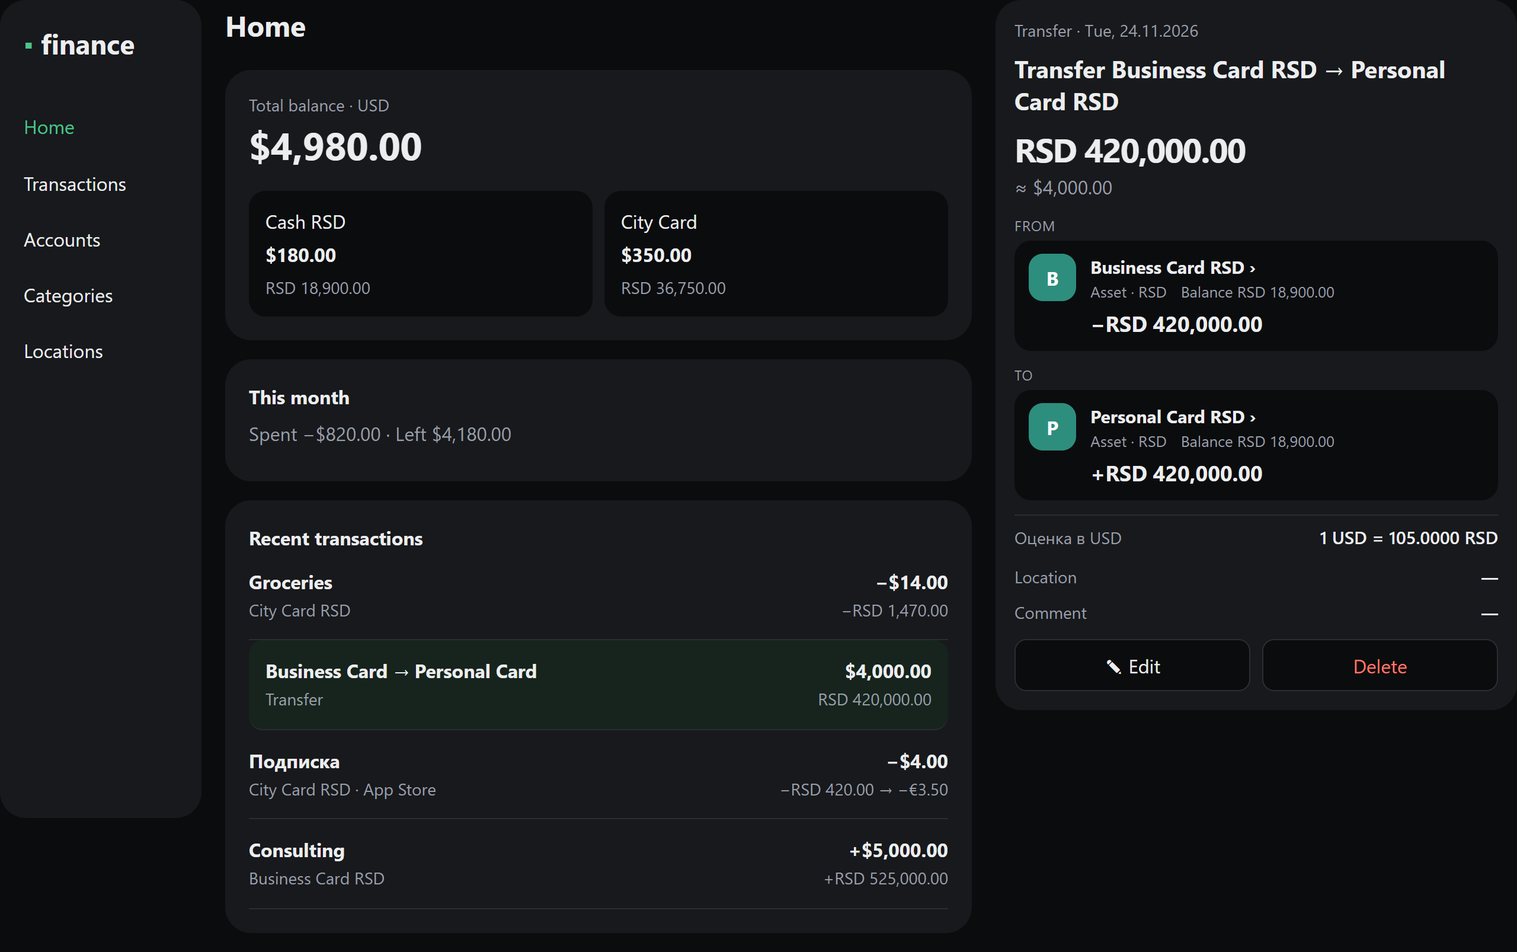
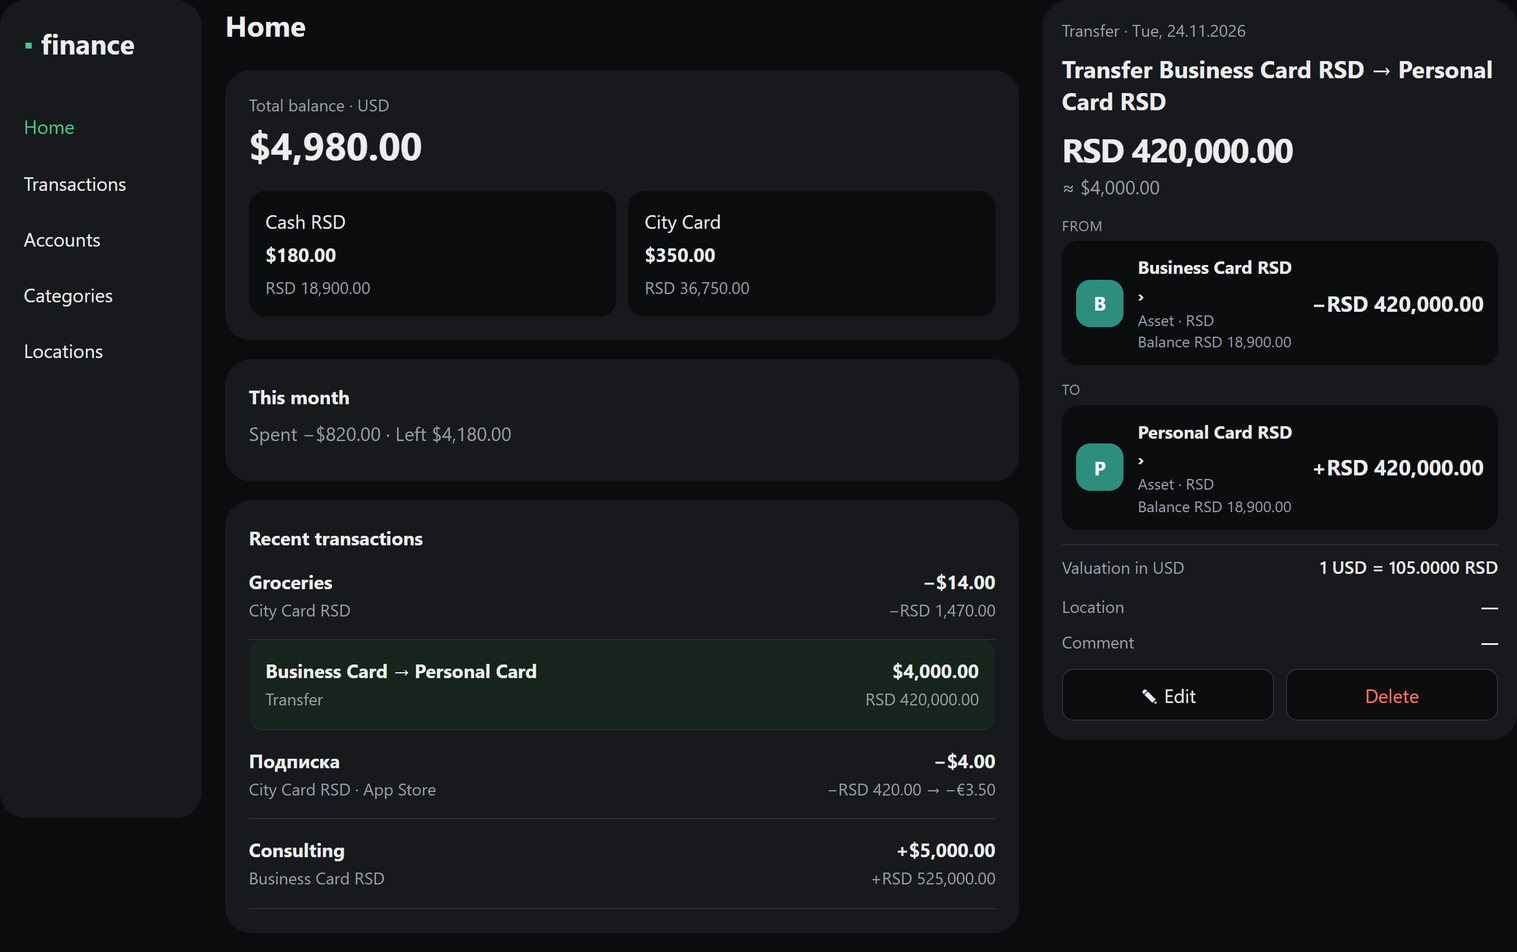
Align #541 mockups with final card width and amount placement

diff --git a/541/design/index.html b/541/design/index.html
@@ -1,7 +1,9 @@
 <!doctype html><html lang="ru"><meta charset="utf-8"><meta name="viewport" content="width=device-width,initial-scale=1"><title>Finance — карточки и курсы</title><style>
-:root{color-scheme:dark;--ground:#0b0c0e;--panel:#17191c;--ink:#ecedee;--muted:#9a9ea6;--line:#2a2d32;--selected:#16241d;--accent:#4cc38a} :root[data-theme=light]{color-scheme:light;--ground:#eeeeeb;--panel:#fff;--ink:#17181a;--muted:#5a5d64;--line:#e2e2de;--selected:#eaf3ee;--accent:#1f7a55}*{box-sizing:border-box}body{margin:0;background:var(--ground);color:var(--ink);font:16px/1.45 system-ui,sans-serif}button,select{font:inherit;color:inherit;background:var(--panel);border:1px solid var(--line);border-radius:10px;min-height:44px;padding:8px 14px;cursor:pointer}button.active{background:var(--ink);color:var(--ground)}button:focus-visible,select:focus-visible{outline:2px solid var(--accent);outline-offset:3px}.toolbar{padding:24px;position:sticky;top:0;background:var(--ground);z-index:2;border-bottom:1px solid var(--line)}h1{font-size:24px;margin:0 0 8px}p{margin:8px 0;color:var(--muted)}.controls{display:flex;flex-wrap:wrap;gap:8px;margin-top:16px}label{display:flex;align-items:center;gap:8px}.preview{padding:24px;overflow:auto}.canvas{width:1280px;max-width:100%;margin:auto;display:grid;grid-template-columns:170px minmax(0,1fr) 440px;gap:20px;align-items:start}.canvas.phone{width:390px;display:block}.nav,.panel,.detail{background:var(--panel);border-radius:22px;padding:20px}.nav{min-height:690px}.logo{font-weight:700;font-size:23px;margin:0 0 30px}.logo i{color:var(--accent)}.nav span{display:block;padding:12px 0}.nav .chosen{color:var(--accent)}.panel{margin-bottom:16px}.label{font-size:14px;color:var(--muted)}h2{font-size:24px;margin:8px 0 20px}.primary{font-size:36px;font-weight:650;letter-spacing:-.03em;line-height:1.15;margin:20px 0 6px;font-variant-numeric:tabular-nums}.base{font-size:16px;color:var(--muted)}.role{font-size:14px;text-transform:uppercase;letter-spacing:.04em;color:var(--muted);margin:24px 0 8px}.entry{background:var(--ground);border-radius:16px;padding:16px}.identity{display:flex;gap:12px;align-items:center}.avatar{display:grid;place-items:center;width:40px;height:40px;border-radius:12px;flex:none;background:#2d8e7e;color:white;font-weight:650}.identity strong{font-size:18px;overflow-wrap:break-word}.entryamount{margin:14px 0 0 52px;display:flex;justify-content:space-between;align-items:baseline;gap:8px;flex-wrap:wrap}.entryamount strong{font-size:21px;font-variant-numeric:tabular-nums}.entry .base{font-size:15px}.rates{border-top:1px solid var(--line);margin-top:22px;padding-top:16px}.rates .label{margin-bottom:8px}.rate{display:flex;flex-direction:column;gap:2px;margin-bottom:12px}.rate strong{font-size:16px;font-weight:550}.rate span{font-size:14px;color:var(--muted)}.facts{margin-top:18px}.fact{display:flex;justify-content:space-between;gap:18px;margin:10px 0}.fact span{color:var(--muted)}.actions{display:flex;gap:10px;margin-top:22px}.actions button{flex:1;background:var(--ground)}.actions button:last-child{color:#ff7a6b}.row{padding:14px 0;border-bottom:1px solid var(--line);display:flex;justify-content:space-between;gap:16px}.row strong{display:block}.row small{font-size:14px;color:var(--muted)}.row .money{text-align:right;flex:none}.highlight{background:var(--selected);padding:14px;border-radius:12px}.summary{font-size:32px;font-weight:650}.tiles{display:flex;gap:10px;margin-top:16px}.tile{background:var(--ground);border-radius:14px;padding:14px;flex:1}.tile strong{display:block;margin:4px 0}.tile small{color:var(--muted);font-size:14px}.middle>h2{margin-top:4px}.phone .nav,.phone .middle{display:none}.phone .detail{border-radius:22px}.variant-b .entryamount{margin:14px 0 0;text-align:right;display:block}.variant-b .entryamount .base{display:block;margin-top:4px}.variant-b .entry{padding:14px}.variant-b .rates{padding:16px;background:var(--ground);border-radius:14px;border:0}.hint{max-width:1000px;margin:16px auto;font-size:14px}.catalog .canvas{grid-template-columns:70px minmax(220px,1fr) minmax(240px,1fr) 440px}.catalog .nav span{font-size:0}.catalog .nav span:first-letter{font-size:18px}.catalog .logo{font-size:0}.accountlist{display:none}.catalog .accountlist{display:block}.catalog .tile{margin-bottom:14px}.catalog .canvas.phone{display:block}.catalog .phone .accountlist{display:none}@media(max-width:900px){.canvas{max-width:none}.preview{padding:16px}.toolbar{position:static}.preview:has(.phone){overflow:visible}.canvas.phone{max-width:100%}}
-.detail{padding:16px}.detail h2{line-height:1.35;margin:8px 0 12px;font-size:20px}.primary{font-size:28px;margin:12px 0 4px}.role{margin:12px 0 4px;font-size:12px}.entry{padding:10px 12px;border-radius:14px}.identity strong{font-size:15px}.entry .identity .label{font-size:13px;display:flex;flex-wrap:wrap;gap:0 12px}.entryamount{margin-top:4px}.entryamount strong{font-size:18px}.rates{margin-top:12px;padding-top:8px}.rate{flex-direction:row;flex-wrap:wrap;justify-content:space-between;align-items:baseline;gap:0 12px;margin-bottom:8px}.rate strong{font-size:15px}.rate span{font-size:14px}.facts{margin-top:12px;font-size:14px}.actions{margin-top:12px}</style><header class="toolbar"><h1>Finance · суммы, курсы и пространство</h1><p>Два варианта для согласования. Все имена и операции вымышлены.</p><div class="controls"><button id="a" class="active">A · название сверху, суммы ниже</button><button id="b">B · суммы отдельным блоком справа</button><label>Экран <select id="screen"><option value="transactions">Transactions</option><option value="home">Home</option><option value="catalog">Accounts</option></select></label><label>Пример <select id="example"><option value="expense">Расход RSD → EUR</option><option value="same">Расход RSD → RSD</option><option value="fee">Расход RSD → USD</option><option value="transfer">Перевод RSD → RSD</option><option value="fx">Перевод USD → RSD</option><option value="income">Доход в RSD</option><option value="adjustment">Корректировка в RSD</option><option value="different">Перевод с разной оценкой</option><option value="unvalued">Операция без оценки</option></select></label><button id="width">Телефон · 390</button><button id="theme">Светлая тема</button></div></header><div class="preview"><div class="canvas" id="canvas"></div></div><p class="hint">Панель деталей: 440 CSS px на компьютере. В компактной раскладке сначала сворачивается меню; три колонки появляются только при достаточной ширине. Названия и суммы не обрезаются. Курсы находятся в одном блоке; список транзакций показывает суммы без курсов.</p><script>
-const examples={expense:{type:'Expense',title:'Подписка',amount:'−RSD 420.00',base:'≈ −$4.00',from:'City Card RSD',to:'Подписки',fromAmount:'−RSD 420.00',toAmount:'+€3.50',fromNote:'Asset · RSD',toNote:'Expense · Fixed',rates:[['Курс операции','1 EUR = 120.0000 RSD'],['Оценка в USD','1 USD = 105.0000 RSD']]},same:{type:'Expense',title:'Groceries',amount:'−RSD 1,470.00',base:'≈ −$14.00',from:'City Card RSD',to:'Groceries',fromAmount:'−RSD 1,470.00',toAmount:'+RSD 1,470.00',fromNote:'Asset · RSD',toNote:'Expense · Variable',rates:[['Оценка в USD','1 USD = 105.0000 RSD']]},fee:{type:'Expense',title:'Service fee',amount:'−RSD 1,365.00',base:'≈ −$13.00',from:'Business Card RSD',to:'Fees',fromAmount:'−RSD 1,365.00',toAmount:'+$13.00',fromNote:'Asset · RSD',toNote:'Expense · Fixed',rates:[['Курс операции · также оценка в USD','1 USD = 105.0000 RSD']]},transfer:{type:'Transfer',title:'Transfer Business Card RSD → Personal Card RSD',amount:'RSD 420,000.00',base:'≈ $4,000.00',from:'Business Card RSD',to:'Personal Card RSD',fromAmount:'−RSD 420,000.00',toAmount:'+RSD 420,000.00',fromNote:'Asset · RSD',toNote:'Asset · RSD',rates:[['Оценка в USD','1 USD = 105.0000 RSD']]},fx:{type:'Transfer',title:'Transfer USD Card → Cash RSD',amount:'$10.00',base:'',from:'USD Card',to:'Cash RSD',fromAmount:'−$10.00',toAmount:'+RSD 1,050.00',fromNote:'Asset · USD',toNote:'Asset · RSD',rates:[['Курс операции · также оценка в USD','1 USD = 105.0000 RSD']]},income:{type:'Income',title:'Consulting',amount:'+RSD 525,000.00',base:'≈ +$5,000.00',from:'Consulting',to:'Business Card RSD',fromAmount:'−RSD 525,000.00',toAmount:'+RSD 525,000.00',fromNote:'Income',toNote:'Asset · RSD',rates:[['Оценка в USD','1 USD = 105.0000 RSD']]},adjustment:{type:'Adjustment',title:'Balance adjustment',amount:'+RSD 1,050.00',base:'≈ +$10.00',from:null,to:'Cash RSD',toAmount:'+RSD 1,050.00',toNote:'Asset · RSD',rates:[['Оценка в USD','1 USD = 105.0000 RSD']]},different:{type:'Transfer',title:'Transfer EUR Card → Cash RSD',amount:'€100.00',base:'≈ $110.00',from:'EUR Card',to:'Cash RSD',fromAmount:'−€100.00',toAmount:'+RSD 12,000.00',fromNote:'Asset · EUR',toNote:'Asset · RSD',rates:[['Курс операции','1 EUR = 120.0000 RSD'],['Оценка FROM в USD','1 USD = 0.9091 EUR'],['Оценка TO в USD','1 USD = 100.0000 RSD']],difference:'+$10.00'},unvalued:{type:'Expense',title:'Groceries',amount:'−RSD 1,470.00',base:'Ещё не оценено',from:'City Card RSD',to:'Groceries',fromAmount:'−RSD 1,470.00',toAmount:'+RSD 1,470.00',fromNote:'Asset · RSD',toNote:'Expense · Variable',rates:[]}};
+:root{color-scheme:dark;--ground:#0b0c0e;--panel:#17191c;--ink:#ecedee;--muted:#9a9ea6;--line:#2a2d32;--selected:#16241d;--accent:#4cc38a} :root[data-theme=light]{color-scheme:light;--ground:#eeeeeb;--panel:#fff;--ink:#17181a;--muted:#5a5d64;--line:#e2e2de;--selected:#eaf3ee;--accent:#1f7a55}*{box-sizing:border-box}body{margin:0;background:var(--ground);color:var(--ink);font:16px/1.45 system-ui,sans-serif}button,select{font:inherit;color:inherit;background:var(--panel);border:1px solid var(--line);border-radius:10px;min-height:44px;padding:8px 14px;cursor:pointer}button.active{background:var(--ink);color:var(--ground)}button:focus-visible,select:focus-visible{outline:2px solid var(--accent);outline-offset:3px}.toolbar{padding:24px;position:sticky;top:0;background:var(--ground);z-index:2;border-bottom:1px solid var(--line)}h1{font-size:24px;margin:0 0 8px}p{margin:8px 0;color:var(--muted)}.controls{display:flex;flex-wrap:wrap;gap:8px;margin-top:16px}label{display:flex;align-items:center;gap:8px}.preview{padding:24px;overflow:auto}.canvas{width:1280px;max-width:100%;margin:auto;display:grid;grid-template-columns:170px minmax(0,1fr) 400px;gap:20px;align-items:start}.canvas.phone{width:390px;display:block}.nav,.panel,.detail{background:var(--panel);border-radius:22px;padding:20px}.nav{min-height:690px}.logo{font-weight:700;font-size:23px;margin:0 0 30px}.logo i{color:var(--accent)}.nav span{display:block;padding:12px 0}.nav .chosen{color:var(--accent)}.panel{margin-bottom:16px}.label{font-size:14px;color:var(--muted)}h2{font-size:24px;margin:8px 0 20px}.primary{font-size:36px;font-weight:650;letter-spacing:-.03em;line-height:1.15;margin:20px 0 6px;font-variant-numeric:tabular-nums}.base{font-size:16px;color:var(--muted)}.role{font-size:14px;text-transform:uppercase;letter-spacing:.04em;color:var(--muted);margin:24px 0 8px}.entry{background:var(--ground);border-radius:16px;padding:16px}.identity{display:flex;gap:12px;align-items:center}.avatar{display:grid;place-items:center;width:40px;height:40px;border-radius:12px;flex:none;background:#2d8e7e;color:white;font-weight:650}.identity strong{font-size:18px;overflow-wrap:break-word}.entryamount{margin:14px 0 0 52px;display:flex;justify-content:space-between;align-items:baseline;gap:8px;flex-wrap:wrap}.entryamount strong{font-size:21px;font-variant-numeric:tabular-nums}.entry .base{font-size:15px}.rates{border-top:1px solid var(--line);margin-top:22px;padding-top:16px}.rates .label{margin-bottom:8px}.rate{display:flex;flex-direction:column;gap:2px;margin-bottom:12px}.rate strong{font-size:16px;font-weight:550}.rate span{font-size:14px;color:var(--muted)}.facts{margin-top:18px}.fact{display:flex;justify-content:space-between;gap:18px;margin:10px 0}.fact span{color:var(--muted)}.actions{display:flex;gap:10px;margin-top:22px}.actions button{flex:1;background:var(--ground)}.actions button:last-child{color:#ff7a6b}.row{padding:14px 0;border-bottom:1px solid var(--line);display:flex;justify-content:space-between;gap:16px}.row strong{display:block}.row small{font-size:14px;color:var(--muted)}.row .money{text-align:right;flex:none}.highlight{background:var(--selected);padding:14px;border-radius:12px}.summary{font-size:32px;font-weight:650}.tiles{display:flex;gap:10px;margin-top:16px}.tile{background:var(--ground);border-radius:14px;padding:14px;flex:1}.tile strong{display:block;margin:4px 0}.tile small{color:var(--muted);font-size:14px}.middle>h2{margin-top:4px}.phone .nav,.phone .middle{display:none}.phone .detail{border-radius:22px}.variant-b .entryamount{margin:14px 0 0;text-align:right;display:block}.variant-b .entryamount .base{display:block;margin-top:4px}.variant-b .entry{padding:14px}.variant-b .rates{padding:16px;background:var(--ground);border-radius:14px;border:0}.hint{max-width:1000px;margin:16px auto;font-size:14px}.catalog .canvas{grid-template-columns:70px minmax(220px,1fr) minmax(240px,1fr) 400px}.catalog .nav span{font-size:0}.catalog .nav span:first-letter{font-size:18px}.catalog .logo{font-size:0}.accountlist{display:none}.catalog .accountlist{display:block}.catalog .tile{margin-bottom:14px}.catalog .canvas.phone{display:block}.catalog .phone .accountlist{display:none}@media(max-width:900px){.canvas{max-width:none}.preview{padding:16px}.toolbar{position:static}.preview:has(.phone){overflow:visible}.canvas.phone{max-width:100%}}
+.detail{padding:16px}.detail h2{line-height:1.35;margin:8px 0 12px;font-size:20px}.primary{font-size:28px;margin:12px 0 4px}.role{margin:12px 0 4px;font-size:12px}.entry{padding:10px 12px;border-radius:14px}.identity strong{font-size:15px}.entry .identity .label{font-size:13px;display:flex;flex-wrap:wrap;gap:0 12px}.entryamount{margin-top:4px}.entryamount strong{font-size:18px}.rates{margin-top:12px;padding-top:8px}.rate{flex-direction:row;flex-wrap:wrap;justify-content:space-between;align-items:baseline;gap:0 12px;margin-bottom:8px}.rate strong{font-size:15px}.rate span{font-size:14px}.facts{margin-top:12px;font-size:14px}.actions{margin-top:12px}.entry{display:grid;grid-template-columns:auto minmax(0,1fr) auto;gap:4px 12px;align-items:center}.entry>.identity{display:contents}.entry>.identity>.avatar{grid-column:1;grid-row:1}.entry>.identity>div{grid-column:2;grid-row:1;min-width:0}.entry .identity .label{flex-direction:column;gap:0}.entryamount{grid-column:3;grid-row:1;margin:0;text-align:right;display:block}.entryamount strong{font-size:18px;white-space:nowrap}.identity strong{overflow-wrap:anywhere}.rate{font-size:14px}</style><header class="toolbar"><h1>Finance · суммы, курсы и пространство</h1><p>Два варианта для согласования. Все имена и операции вымышлены.</p><div class="controls"><button id="a" class="active">A · данные слева, суммы справа</button><button id="b">B · суммы отдельным блоком справа</button><label>Экран <select id="screen"><option value="transactions">Transactions</option><option value="home">Home</option><option value="catalog">Accounts</option></select></label><label>Пример <select id="example"><option value="expense">Расход RSD → EUR</option><option value="same">Расход RSD → RSD</option><option value="fee">Расход RSD → USD</option><option value="transfer">Перевод RSD → RSD</option><option value="fx">Перевод USD → RSD</option><option value="income">Доход в RSD</option><option value="adjustment">Корректировка в RSD</option><option value="different">Перевод с разной оценкой</option><option value="unvalued">Операция без оценки</option></select></label><button id="width">Телефон · 390</button><button id="theme">Светлая тема</button></div></header><div class="preview"><div class="canvas" id="canvas"></div></div><p class="hint">Панель деталей: 400 CSS px на компьютере. В компактной раскладке сначала сворачивается меню; три колонки появляются только при достаточной ширине. Названия и суммы не обрезаются. Курсы находятся в одном блоке; список транзакций показывает суммы без курсов.</p><script>
+const examples={expense:{type:'Expense',title:'Подписка',amount:'−RSD 420.00',base:'≈ −$4.00',from:'City Card RSD',to:'Подписки',fromAmount:'−RSD 420.00',toAmount:'+€3.50',fromNote:'Asset · RSD',toNote:'Expense · Fixed',rates:[['Exchange rate','1 EUR = 120.0000 RSD'],['Valuation in USD','1 USD = 105.0000 RSD']]},same:{type:'Expense',title:'Groceries',amount:'−RSD 1,470.00',base:'≈ −$14.00',from:'City Card RSD',to:'Groceries',fromAmount:'−RSD 1,470.00',toAmount:'+RSD 1,470.00',fromNote:'Asset · RSD',toNote:'Expense · Variable',rates:[['Valuation in USD','1 USD = 105.0000 RSD']]},fee:{type:'Expense',title:'Service fee',amount:'−RSD 1,365.00',base:'≈ −$13.00',from:'Business Card RSD',to:'Fees',fromAmount:'−RSD 1,365.00',toAmount:'+$13.00',fromNote:'Asset · RSD',toNote:'Expense · Fixed',rates:[['Exchange rate','1 USD = 105.0000 RSD']]},transfer:{type:'Transfer',title:'Transfer Business Card RSD → Personal Card RSD',amount:'RSD 420,000.00',base:'≈ $4,000.00',from:'Business Card RSD',to:'Personal Card RSD',fromAmount:'−RSD 420,000.00',toAmount:'+RSD 420,000.00',fromNote:'Asset · RSD',toNote:'Asset · RSD',rates:[['Valuation in USD','1 USD = 105.0000 RSD']]},fx:{type:'Transfer',title:'Transfer USD Card → Cash RSD',amount:'$10.00',base:'',from:'USD Card',to:'Cash RSD',fromAmount:'−$10.00',toAmount:'+RSD 1,050.00',fromNote:'Asset · USD',toNote:'Asset · RSD',rates:[['Exchange rate','1 USD = 105.0000 RSD']]},income:{type:'Income',title:'Consulting',amount:'+RSD 525,000.00',base:'≈ +$5,000.00',from:'Consulting',to:'Business Card RSD',fromAmount:'−RSD 525,000.00',toAmount:'+RSD 525,000.00',fromNote:'Income',toNote:'Asset · RSD',rates:[['Valuation in USD','1 USD = 105.0000 RSD']]},adjustment:{type:'Adjustment',title:'Balance adjustment',amount:'+RSD 1,050.00',base:'≈ +$10.00',from:null,to:'Cash RSD',toAmount:'+RSD 1,050.00',toNote:'Asset · RSD',rates:[['Valuation in USD','1 USD = 105.0000 RSD']]},different:{type:'Transfer',title:'Transfer EUR Card → Cash RSD',amount:'€100.00',base:'≈ $110.00',from:'EUR Card',to:'Cash RSD',fromAmount:'−€100.00',toAmount:'+RSD 12,000.00',fromNote:'Asset · EUR',toNote:'Asset · RSD',rates:[['Exchange rate','1 EUR = 120.0000 RSD'],['Valuation in USD (From)','1 USD = 0.9091 EUR'],['Valuation in USD (To)','1 USD = 100.0000 RSD']],difference:'+$10.00'},unvalued:{type:'Expense',title:'Groceries',amount:'−RSD 1,470.00',base:'Ещё не оценено',from:'City Card RSD',to:'Groceries',fromAmount:'−RSD 1,470.00',toAmount:'+RSD 1,470.00',fromNote:'Asset · RSD',toNote:'Expense · Variable',rates:[]}};
 let variant='a',phone=false,theme='dark';const $=id=>document.getElementById(id);function row(title,sub,amount,original,selected=false){return `<div class="row ${selected?'highlight':''}"><div><strong>${title}</strong><small>${sub}</small></div><div class="money"><strong>${amount}</strong><small>${original}</small></div></div>`}function entry(role,name,note,amount){const balance=note.startsWith('Asset')?(name.includes('USD')?'$250.00':'RSD 18,900.00'):null;return `<div class="role">${role}</div><section class="entry"><div class="identity"><span class="avatar">${name[0]}</span><div><strong>${name} ›</strong><div class="label"><span>${note}</span>${balance?'<span>Balance '+balance+'</span>':''}</div></div></div><div class="entryamount"><strong>${amount}</strong></div></section>`}function render(){const e=examples[$('example').value],screen=$('screen').value;document.body.className=(screen==='catalog'?'catalog ':'')+'variant-'+variant;$('canvas').className='canvas'+(phone?' phone':'');const rows=row('Groceries','City Card RSD','−$14.00','−RSD 1,470.00')+row('Business Card → Personal Card','Transfer','$4,000.00','RSD 420,000.00',true)+row('Подписка','City Card RSD · App Store','−$4.00','−RSD 420.00 → −€3.50')+row('Consulting','Business Card RSD','+$5,000.00','+RSD 525,000.00');$('canvas').innerHTML=`<aside class="nav"><div class="logo"><i>▪</i> finance</div><span class="${screen==='home'?'chosen':''}">Home</span><span class="${screen==='transactions'?'chosen':''}">Transactions</span><span class="${screen==='catalog'?'chosen':''}">Accounts</span><span>Categories</span><span>Locations</span></aside><section class="panel accountlist"><h2>Accounts</h2>${row('Cash RSD','Asset','$180.00','RSD 18,900.00')}${row('Business Card RSD','Asset','$350.00','RSD 36,750.00',true)}${row('Personal Card RSD','Asset','$4,200.00','RSD 441,000.00')}</section><main class="middle"><h2>${screen==='home'?'Home':screen==='catalog'?'Business Card RSD':'Transactions'}</h2>${screen==='home'?'<section class="panel"><div class="label">Total balance · USD</div><div class="summary">$4,980.00</div><div class="tiles"><div class="tile">Cash RSD<strong>$180.00</strong><small>RSD 18,900.00</small></div><div class="tile">City Card<strong>$350.00</strong><small>RSD 36,750.00</small></div></div></section><section class="panel"><strong>This month</strong><p>Spent −$820.00 · Left $4,180.00</p></section>':''}<section class="panel"><strong>${screen==='home'?'Recent transactions':'Today'}</strong>${rows}</section></main><article class="detail"><div class="label">${e.type} · Tue, 24.11.2026</div><h2>${e.title}</h2><div class="primary">${e.amount}</div>${e.base?'<div class="base">'+e.base+'</div>':''}${e.from?entry('From',e.from,e.fromNote,e.fromAmount):''}${entry('To',e.to,e.toNote,e.toAmount)}${e.rates.length?'<section class="rates">'+e.rates.map(([label,rate])=>'<div class="rate"><span>'+label+'</span><strong>'+rate+'</strong></div>').join('')+'</section>':''}${e.difference?'<div class="fact"><span>Exchange difference</span><strong>'+e.difference+'</strong></div>':''}<div class="facts"><div class="fact"><span>Location</span><strong>—</strong></div><div class="fact"><span>Comment</span><strong>—</strong></div></div><div class="actions"><button aria-label="Edit transaction">✎ Edit</button><button aria-label="Delete transaction">Delete</button></div></article>`;$('a').classList.toggle('active',variant==='a');$('b').classList.toggle('active',variant==='b');$('width').textContent=phone?'Компьютер · 1280':'Телефон · 390'}$('a').onclick=()=>{variant='a';render()};$('b').onclick=()=>{variant='b';render()};$('width').onclick=()=>{phone=!phone;render()};$('theme').onclick=()=>{theme=theme==='dark'?'light':'dark';document.documentElement.dataset.theme=theme;$('theme').textContent=theme==='dark'?'Светлая тема':'Тёмная тема'};$('screen').onchange=$('example').onchange=render;render();
 </script></html>
+
+
 
